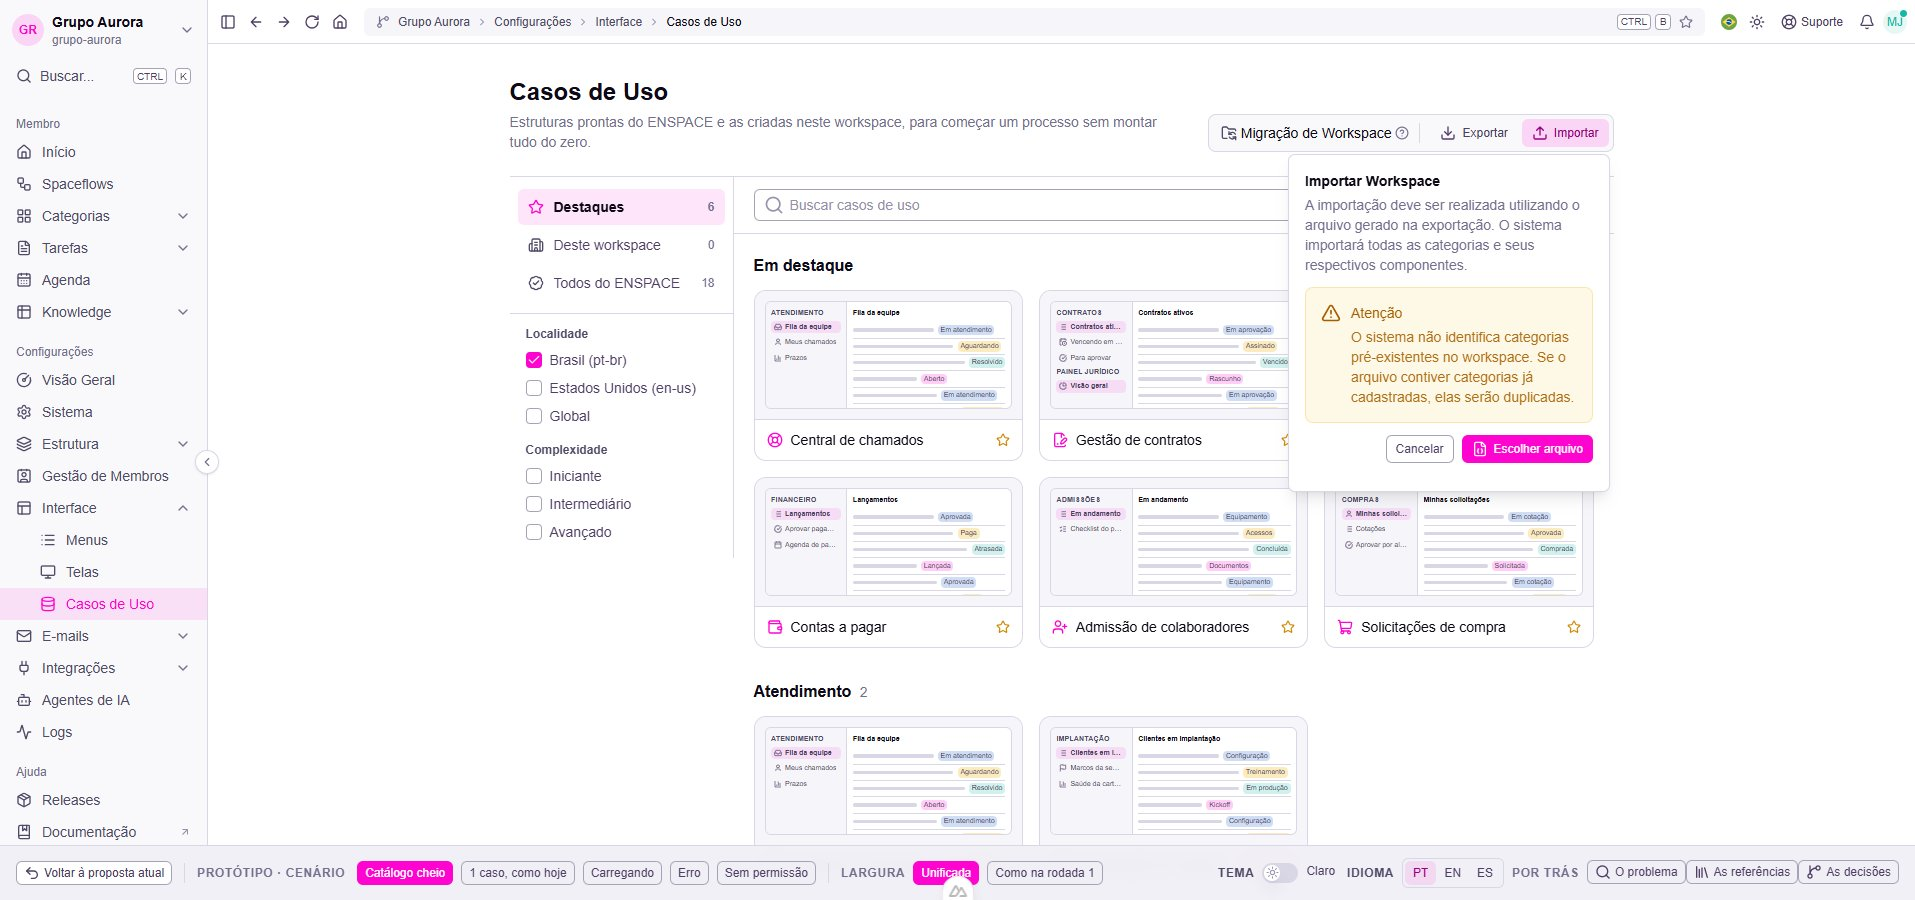
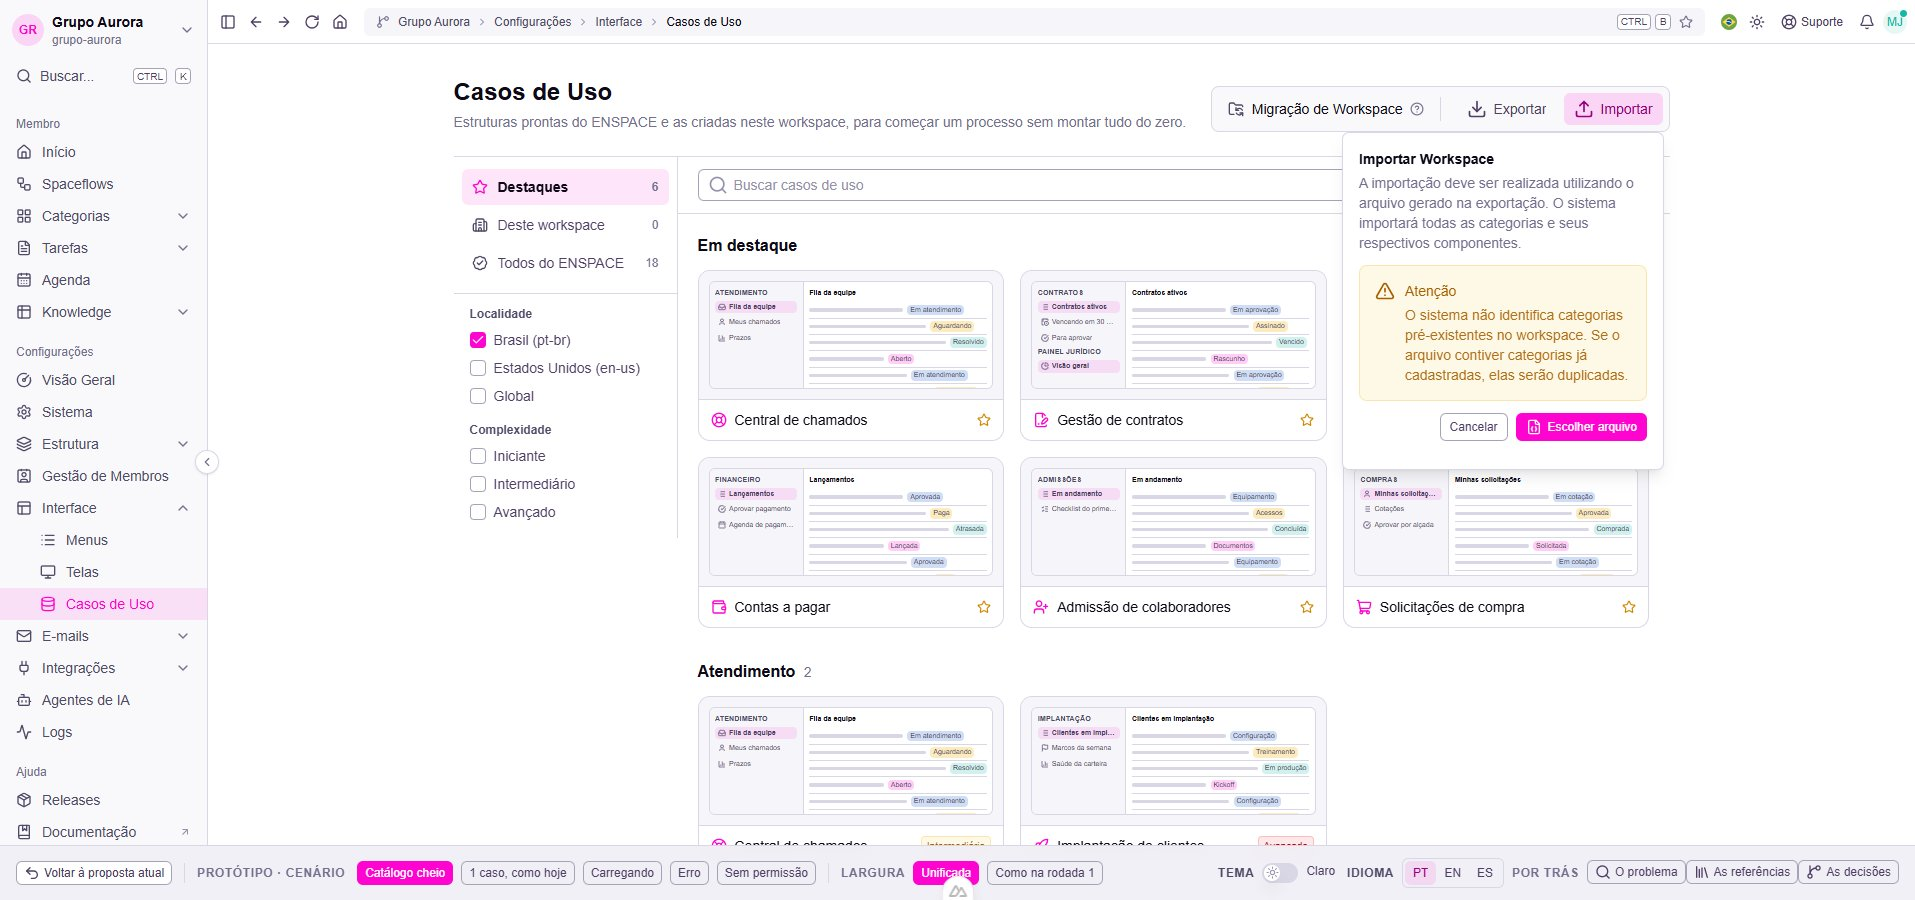
[PROTO] galeria-de-casos-de-uso - rodada 7 - mudanca total mais larga e grupo de migracao com respiro

Changed region(s): [[0.2465, 0.0933, 0.8935, 0.9333]]

diff --git a/app/pages/galeria-de-casos-de-uso/_TopoMudancaTotal.vue b/app/pages/galeria-de-casos-de-uso/_TopoMudancaTotal.vue
@@ -41,26 +41,26 @@ function escolheu(e: Event) {
   <header class="flex flex-wrap items-end justify-between gap-x-6 gap-y-4">
     <div class="min-w-0 flex-1">
       <h1 class="text-2xl font-semibold text-highlighted">{{ props.t.titulo }}</h1>
-      <p class="mt-1 max-w-2xl text-sm text-muted">{{ props.t.subtituloTotal }}</p>
+      <p class="mt-1 max-w-3xl text-sm text-muted">{{ props.t.subtituloTotal }}</p>
     </div>
 
     <!-- Migração de Workspace: discreto, mas com moldura, rótulo e o Importar em cor. -->
-    <div role="group" :aria-label="props.t.migracaoTitulo" class="flex w-full shrink-0 items-center gap-1 rounded-lg border border-default bg-elevated/40 py-1 pl-3 pr-1 sm:w-auto">
+    <div role="group" :aria-label="props.t.migracaoTitulo" class="flex w-full shrink-0 items-center gap-2 rounded-lg border border-default bg-elevated/40 py-1.5 pl-4 pr-1.5 sm:w-auto">
       <UIcon name="i-lucide-folder-sync" class="size-4 shrink-0 text-toned" />
       <!-- No celular, o rótulo longo sai; o ícone e o "?" ficam. -->
       <span class="hidden text-sm font-medium text-highlighted sm:inline">{{ props.t.migracaoTitulo }}</span>
       <UTooltip :text="props.t.migracaoDescricao">
         <UIcon name="i-lucide-circle-help" class="size-3.5 shrink-0 text-muted" tabindex="0" :aria-label="props.t.migracaoDescricao" />
       </UTooltip>
-      <span class="mx-1.5 h-5 w-px bg-accented" aria-hidden="true" />
+      <span class="mx-2 h-6 w-px bg-accented" aria-hidden="true" />
       <span class="flex-1 sm:hidden" aria-hidden="true" />
 
       <UTooltip :text="props.t.exportarTexto" :content="{ side: 'bottom' }" :ui="{ content: 'max-w-72 h-auto whitespace-normal py-1.5' }">
-        <UButton :label="props.t.exportarTitulo" icon="i-lucide-download" color="neutral" variant="ghost" size="sm" :loading="props.exportando" @click="emit('exportar')" />
+        <UButton :label="props.t.exportarTitulo" icon="i-lucide-download" color="neutral" variant="ghost" size="md" :loading="props.exportando" @click="emit('exportar')" />
       </UTooltip>
 
       <UPopover v-model:open="importarAberto" :content="{ align: 'end', sideOffset: 8 }">
-        <UButton :label="props.t.importarTitulo" icon="i-lucide-upload" color="primary" variant="soft" size="sm" />
+        <UButton :label="props.t.importarTitulo" icon="i-lucide-upload" color="primary" variant="soft" size="md" />
         <template #content>
           <div class="w-80 space-y-3 p-4">
             <div>

diff --git a/app/pages/galeria-de-casos-de-uso/index.vue b/app/pages/galeria-de-casos-de-uso/index.vue
@@ -110,7 +110,8 @@ async function tentarDeNovo() {
 <template>
   <CascaDoEnspace :t="t" :workspace="workspaceAtual.nome" :slug="workspaceAtual.slug">
     <div class="min-h-0 flex-1 overflow-y-auto pb-28">
-      <div class="py-8" :class="largura === 'unificada' || mudancaTotal ? 'mx-auto max-w-6xl px-4 sm:px-6' : 'px-3'">
+      <!-- Rodada 7: na mudança total, a página fica mais larga (até 1.280 px). -->
+      <div class="py-8" :class="mudancaTotal ? 'mx-auto max-w-7xl px-4 sm:px-8' : largura === 'unificada' ? 'mx-auto max-w-6xl px-4 sm:px-6' : 'px-3'">
         <!-- Rodada 6: a opção de mudança total troca só esta parte de cima. -->
         <TopoMudancaTotal v-if="mudancaTotal" :t="t" :exportando="exportando" @exportar="exportar" @importar="importar" />
 

diff --git a/app/pages/galeria-de-casos-de-uso/DECISOES.md b/app/pages/galeria-de-casos-de-uso/DECISOES.md
@@ -112,3 +112,12 @@
 - **Requisitos:** não mudaram. Se ela escolher este modo, entram linhas novas para o cabeçalho e para a camada do Importar
 - **Ver:** `evidencias/proposta-18-mudanca-total.jpg` · `proposta-19-mudanca-total-importar.jpg` · `proposta-20-mudanca-total-galeria.jpg` · `proposta-21-mudanca-total-celular.jpg`
 
+## Rodada 7 · 2026-10-21
+- **Pedido (literal):** "nesse caso, pode aumentar a largura (no mudança total), de modo confortável. e as informaçoes dessa parte estao muito apertadas. (print)"
+- **Mudou (só na mudança total):**
+  - a página vai até 1.280 px (`max-w-7xl`), com margem lateral maior; a galeria continua com 3 colunas, agora com cartões mais largos
+  - o grupo "Migração de Workspace" ganha respiro: mais espaço entre os itens, mais margem interna, divisória maior e os botões Exportar e Importar no tamanho padrão
+  - a descrição da página cabe numa linha só em tela larga
+- **Fronteira:** muda a largura e o espaçamento da mudança total; a proposta atual (rodada 5) fica igual
+- **Ver:** `evidencias/proposta-18-mudanca-total.jpg` · `proposta-21-mudanca-total-celular.jpg`
+
